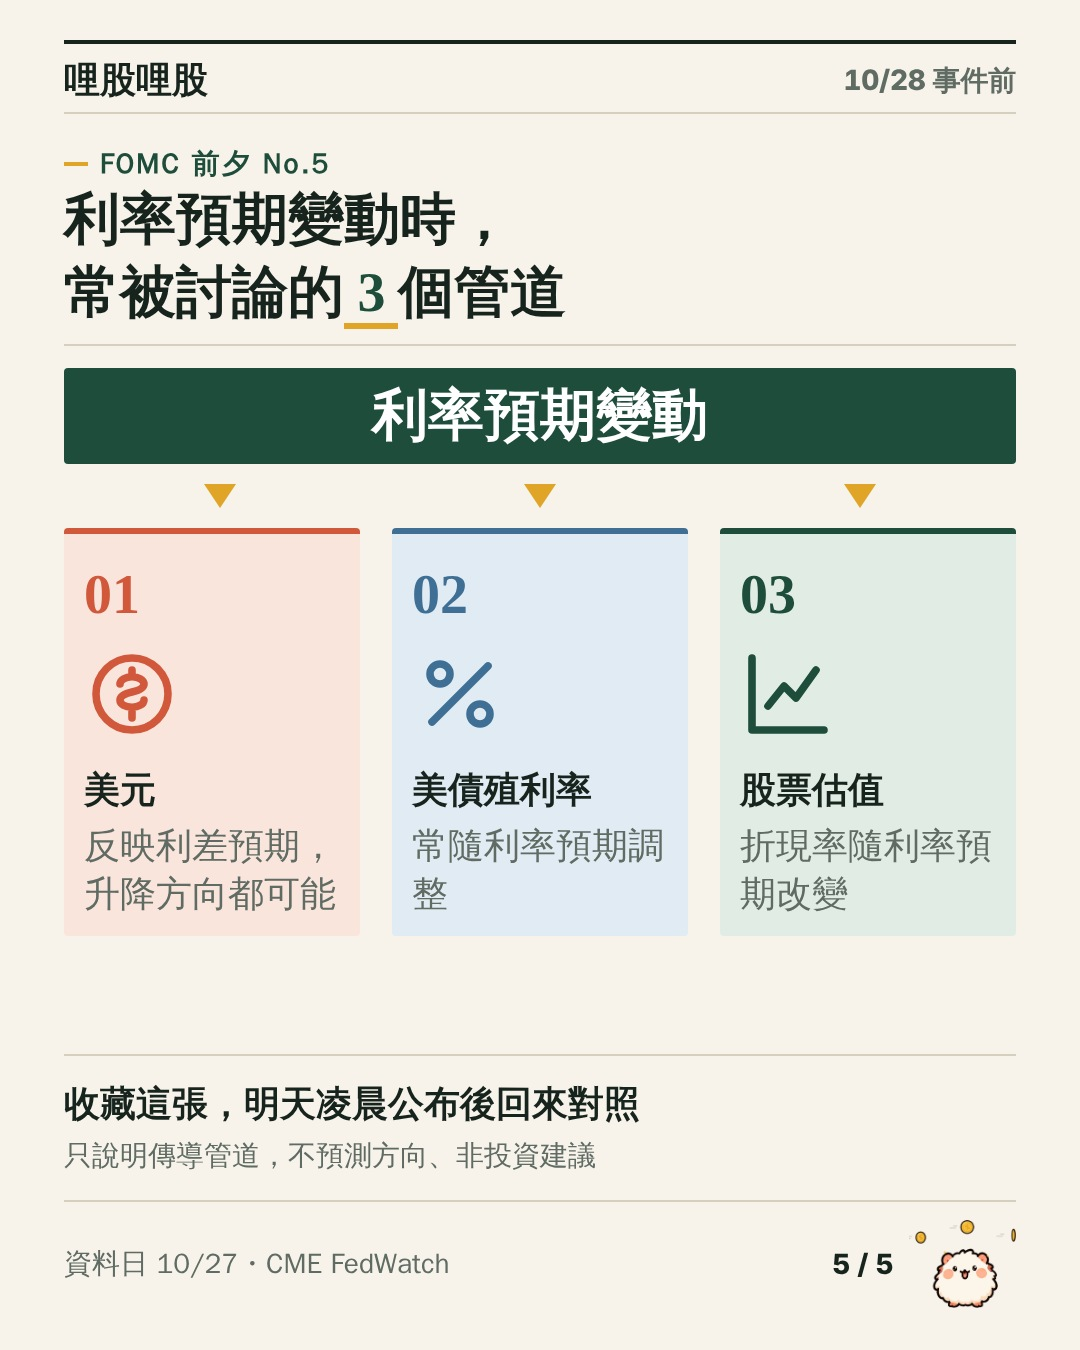
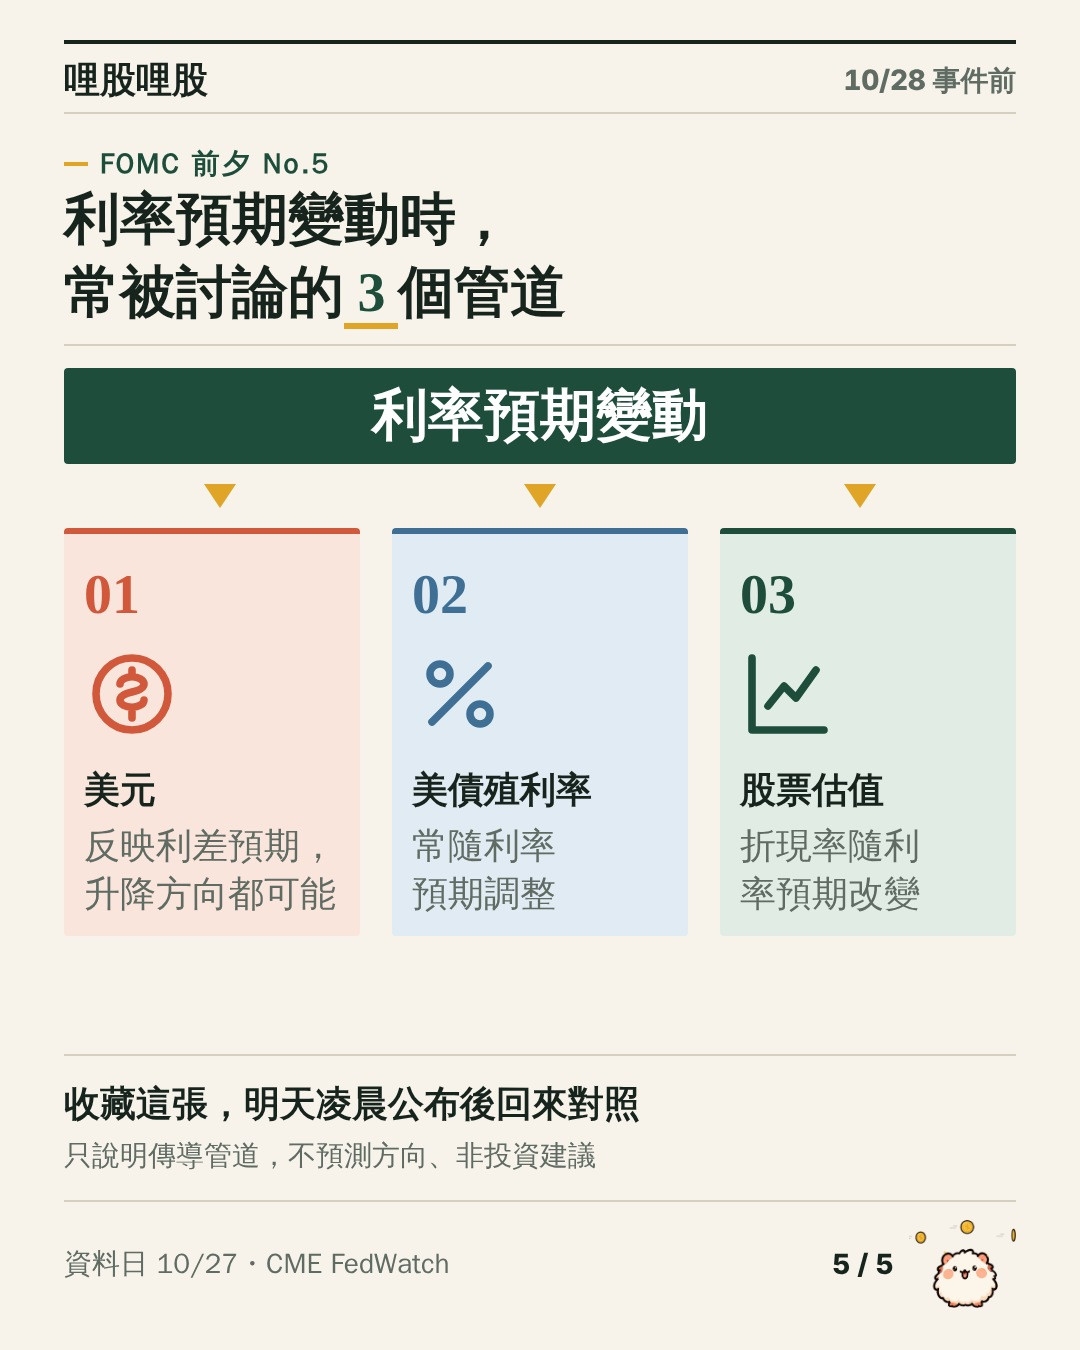
FOMC 前一天 D+ 版終審：第 5 張說明文字孤字換行修正（text-wrap:balance），ai_review 追加終審
Claude-Session: https://claude.ai/code/session_012g4oeY7X1bJYy2XizDYVTu

diff --git a/docs/marketing/posts/2026-10-28-fomc-pre/render_fomc_dplus.py b/docs/marketing/posts/2026-10-28-fomc-pre/render_fomc_dplus.py
@@ -71,7 +71,7 @@ def build():
           + c4(3, "02:30 記者會", "對 12 月的說法", "tb", BL) + c4(4, "本次沒有點陣圖", "不是經濟預測（SEP）會議", "tm", MY) + '</div>')
     # --- 5 三欄：每欄一色（珊瑚／藍／綠），圖示同色，淡底
     def col3(i, ic, t, s, col, tint): return (f'<div class="col" style="width:296px;height:408px;gap:8px;background:var(--{tint});border-top:6px solid {col};border-radius:4px;padding:24px 20px 0"><span class="ser T2" style="color:{col};font-weight:700">0{i}</span>'
-                                              f'<div style="height:112px;margin-top:8px">{icon(ic, col, 96)}</div><span class="T3b">{t}</span><span class="T3" style="color:var(--mu)">{s}</span></div>')
+                                              f'<div style="height:112px;margin-top:8px">{icon(ic, col, 96)}</div><span class="T3b">{t}</span><span class="T3" style="color:var(--mu);text-wrap:balance">{s}</span></div>')
     ar = f'<i style="border:16px solid transparent;border-top:24px solid var(--my);border-bottom:0"></i>'
     p5 = (f'<div class="col" style="gap:8px"><div class="row" style="height:96px;background:var(--gr);border-radius:4px;justify-content:center"><span class="T2" style="color:#fff">利率預期變動</span></div>'
           f'<div class="row" style="justify-content:space-between;height:48px;padding:0 140px">{ar}{ar}{ar}</div>'

diff --git a/docs/marketing/posts/2026-10-28-fomc-pre/ai_review.md b/docs/marketing/posts/2026-10-28-fomc-pre/ai_review.md
@@ -21,3 +21,11 @@
 
 - 結論：**通過**（成品 5 張皆可發）
 - 條件與建議：① 補存 prompt；② 若重製成「明亮無遮罩」版本，須先用修補或裁切去掉右下基座刻字與小白物件；③ 內頁第 2、4、5 張無 AI 圖，只有比比素材，不在本審查範圍（比比來自 `bibi_library`）。
+
+## 追加：D+ 版（v5）成品終審（2026-10-28 台北，美編）
+
+- 範圍：`social/ig/images/2026-10-28_fomc_pre_1～5.jpg`（origin/main 的 D+ 版，全解析度逐張看）；封面 AI 背景（fomc_day.jpg）沿用上節十條結論，D+ 版型下重看：背景在上緣 55% 內、標題區在紙色底上、無刻字／小白物件露出，**維持通過**。
+- 逐項：對齊（左緣 64px 全套一致）過；字級層級（襯線大數字＋無襯線標題＋28px 以上內文）過；配色（深綠主、珊瑚＝升息、藍＝降息、芥黃＝未定／強調，語意前後一致）過；留白過；截斷／溢出、重疊（程式 5 張 0 筆）過；對比過。
+- 必修 1 項已修：第 5 張三欄說明文字孤字換行（「…預期調／整」「…預／期改變」），於 `render_fomc_dplus.py` 的欄位說明加 `text-wrap:balance`，重產後改為「常隨利率／預期調整」「折現率隨利／率預期改變」，其餘 4 張像素不變；已覆蓋 `social/ig/images/…_5.jpg` 與 `v5_Dplus/5.jpg`。
+- 不修的小項（非必修）：第 3 張圖片帶與圖表標題間留白略大（約 70px）；第 2 張「12 月會議：升息機率」珊瑚字在淡粉底對比約 3.5:1，但為 28px 以上粗體，達大字標準。
+- 結論：**可發**。排程 status 維持 draft。
